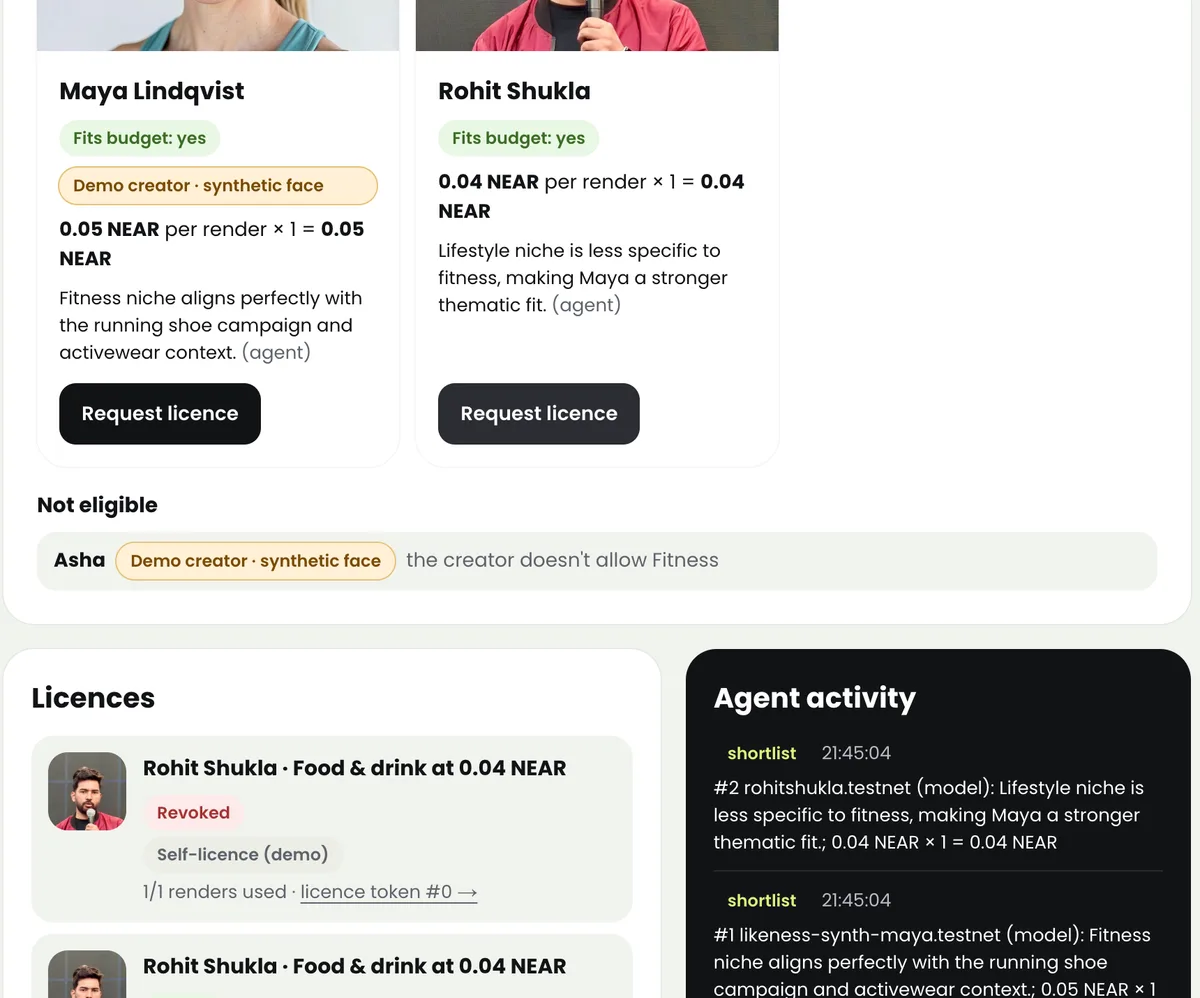
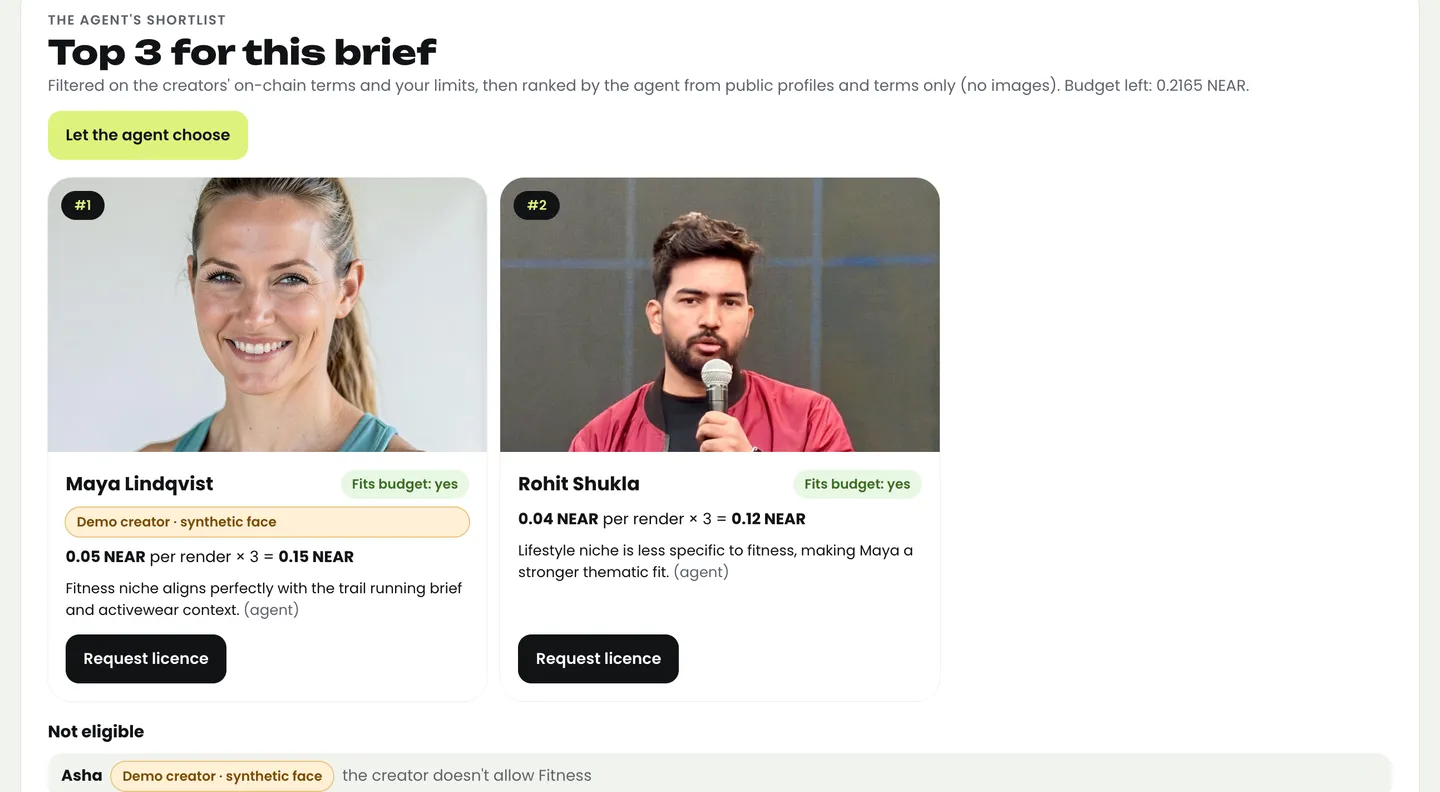
docs: licence NFT #5 screenshot back in the README; new shortlist screenshot (top picks with the agent's reasons, not eligible)

diff --git a/README.md b/README.md
@@ -42,8 +42,9 @@ server's agent key: see the demo video and [Proof it's live](#proof-its-live).
 | | |
 |---|---|
 | ![Creator dashboard and generated ads](docs/screenshots/creator-dashboard-ads.webp) The creator's dashboard: earnings and counts (public on NEAR), the ad waiting for approval, and the ads (images and videos) made with their face, each with its licence | ![Creator review with TEE panels](docs/screenshots/creator-review-tee.webp) The creator's review page: both models **🔒 verified in a TEE**; nothing is paid until the creator approves |
+| ![Licence NFT 5](docs/screenshots/licence-5-active.webp) The licence NFT drawn on-chain from live state: **ACTIVE**, 0.08 NEAR paid, 🔒 TEE verified ad | ![Trust](docs/screenshots/trust-tee-attestation.webp) `/trust`: FLUX.2-klein and Qwen **TEE verified** |
 | ![Set up once](docs/screenshots/brand-setup-once.webp) Escrow, limits, and an agent key that **can't move NEAR** | ![Shortlist](docs/screenshots/brand-shortlist.webp) The agent's shortlist with reasons, and who isn't eligible |
-| ![Trust](docs/screenshots/trust-tee-attestation.webp) `/trust`: FLUX.2-klein and Qwen **TEE verified** | ![Landing](docs/screenshots/landing.webp) The hosted app |
+| ![Landing](docs/screenshots/landing.webp) The hosted app | |
 
 ## Problem
 
